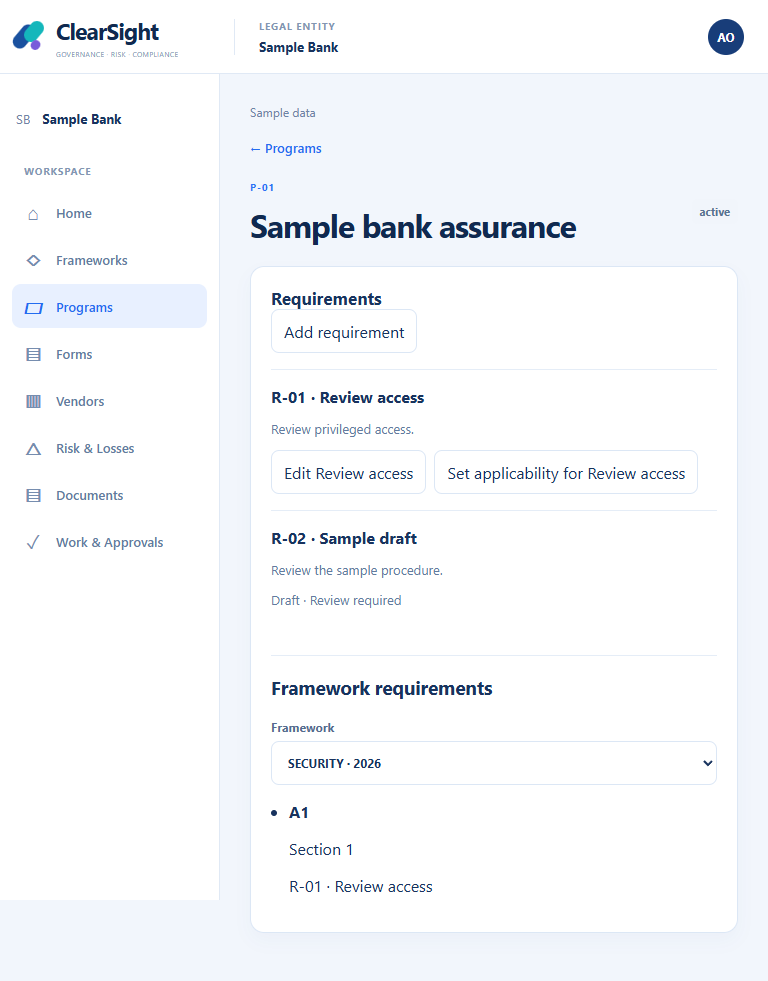
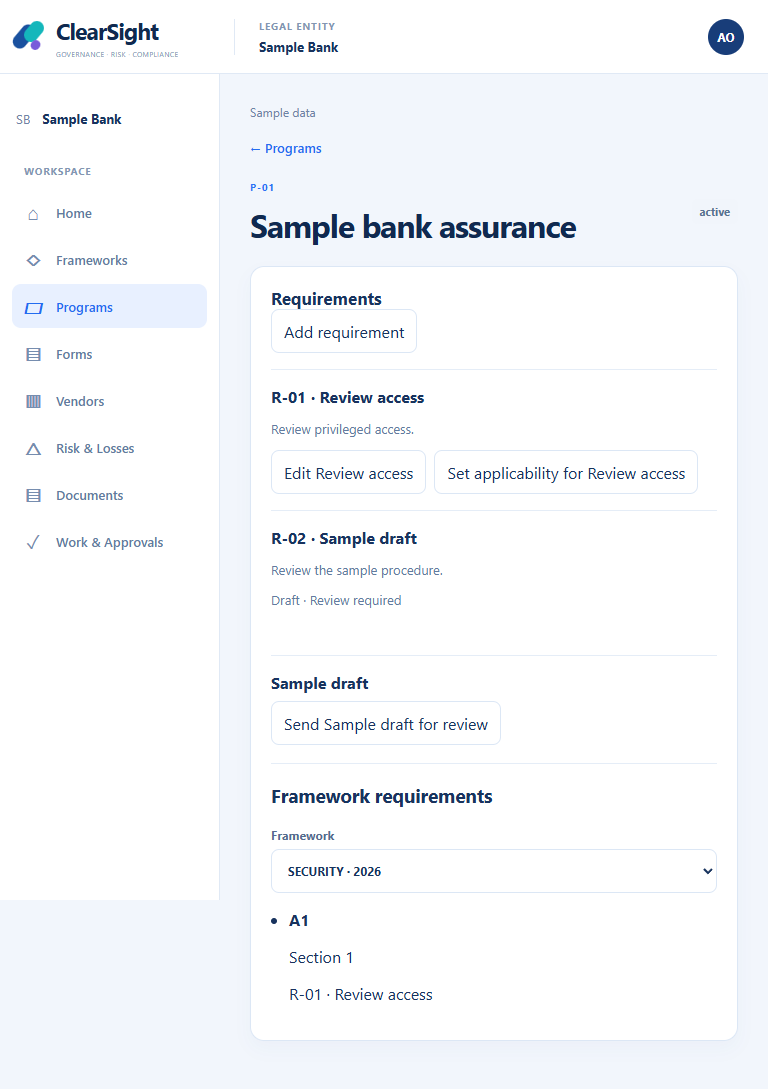
Add governed requirement review workflow

diff --git a/web/src/v210/ProgramRequirements.tsx b/web/src/v210/ProgramRequirements.tsx
@@ -3,6 +3,7 @@ import { ApiError } from "../http";
 import { addProgramRequirement, determineProgramApplicability, loadProgramOperations, supersedeProgramRequirement, type ProgramOperation } from "../programOperationsApi";
 import type { ProgramAggregate, Requirement } from "../types";
 import { FrameworkMappings } from "./FrameworkMappings";
+import { RequirementReviews } from "./RequirementReviews";
 import "./program-requirements.css";
 
 type Mode = { kind: "add" } | { kind: "edit" | "applicability"; requirement: Requirement };
@@ -15,7 +16,7 @@ export function ProgramRequirements({ aggregate, onUpdated }: { aggregate: Progr
   const [actor, setActor] = useState(""); const [action, setAction] = useState(""); const [object, setObject] = useState("");
   const [reason, setReason] = useState(""); const [scope, setScope] = useState(""); const [effective, setEffective] = useState(""); const [busy, setBusy] = useState(false);
   const [status, setStatus] = useState<"" | "updated" | "draft-saved" | "unknown" | "changed">(""); const [error, setError] = useState("");
-  const [mappingPending, setMappingPending] = useState(false);
+  const [mappingPending, setMappingPending] = useState(false); const [reviewPending, setReviewPending] = useState(false);
   const lock = useRef(false); const generation = useRef(0); const inputRef = useRef<HTMLInputElement | HTMLSelectElement>(null);
   const restoreFocus = useRef<{ id: string; kind: Mode["kind"] } | null>(null);
   useEffect(() => {
@@ -32,7 +33,7 @@ export function ProgramRequirements({ aggregate, onUpdated }: { aggregate: Progr
   const applicability = Array.isArray(aggregate.applicability) ? aggregate.applicability : undefined;
   const can = (command: string, requirement?: Requirement) => authority === "ready" && operations.some((item) => item.command === command && item.can_act && (!requirement || item.subresource_id === requirement.id));
   function open(kind: "edit" | "applicability", requirement: Requirement) {
-    if (lock.current || mappingPending || status === "unknown" || status === "changed") return;
+    if (lock.current || mappingPending || reviewPending || status === "unknown" || status === "changed") return;
     restoreFocus.current = { id: requirement.id, kind };
     setMode({ kind, requirement }); setTitle(requirement.title); setStatement(requirement.statement); setAnswer(""); setReason(""); setScope(""); setError(""); setStatus("");
     const today = new Date().toISOString().slice(0, 10);
@@ -40,12 +41,12 @@ export function ProgramRequirements({ aggregate, onUpdated }: { aggregate: Progr
     setEffective(kind === "edit" && prior >= today ? new Date(Date.parse(`${prior}T00:00:00Z`) + 86400000).toISOString().slice(0, 10) : today);
   }
   function beginAdd() {
-    if (lock.current || mappingPending || status === "unknown" || status === "changed" || !can("program.requirement.add")) return;
+    if (lock.current || mappingPending || reviewPending || status === "unknown" || status === "changed" || !can("program.requirement.add")) return;
     restoreFocus.current = { id: "", kind: "add" }; setMode({ kind: "add" }); setCode(""); setTitle(""); setStatement(""); setSourceAnchor(""); setModality(""); setActor(""); setAction(""); setObject(""); setEffective(new Date().toISOString().slice(0, 10)); setError(""); setStatus("");
   }
   async function submit(event: FormEvent) {
     event.preventDefault();
-    if (lock.current || mappingPending || !mode || authority !== "ready" || !effective) return;
+    if (lock.current || mappingPending || reviewPending || !mode || authority !== "ready" || !effective) return;
     const requirement = mode.kind === "add" ? undefined : mode.requirement;
     if (mode.kind === "add" && (!can("program.requirement.add") || ![code, title, statement, sourceAnchor, modality, actor, action, object].every((value) => value.trim()))) return;
     if (mode.kind === "edit" && (!can("program.requirement.supersede", mode.requirement) || !title.trim() || !statement.trim() || !reason.trim() || !mode.requirement.source_anchor || (mode.requirement.effective_from && Date.parse(`${effective}T00:00:00Z`) <= Date.parse(mode.requirement.effective_from)))) return;
@@ -72,22 +73,24 @@ export function ProgramRequirements({ aggregate, onUpdated }: { aggregate: Progr
     if (confirmedResult && generation.current === request) onUpdated(confirmedResult);
   }
   return <section className="v-panel v-program-requirements"><h2>Requirements</h2>
-    {!mode && status !== "unknown" && status !== "changed" && can("program.requirement.add") && <div className="v-program-requirement-actions"><button id="v-add-requirement" type="button" disabled={mappingPending} onClick={beginAdd}>Add requirement</button></div>}
+    {!mode && status !== "unknown" && status !== "changed" && can("program.requirement.add") && <div className="v-program-requirement-actions"><button id="v-add-requirement" type="button" disabled={mappingPending || reviewPending} onClick={beginAdd}>Add requirement</button></div>}
     {!applicability && <p role="alert">Applicability decisions unavailable.</p>}
     {authority === "loading" && <p role="status">Checking requirement access…</p>}
     {authority === "error" && <p role="alert">Requirement actions unavailable. <button type="button" onClick={() => setAttempt((value) => value + 1)}>Try again</button></p>}
     {authority === "changed" && <p role="alert">Program changed. Reload before editing requirements. <button type="button" onClick={() => window.location.reload()}>Reload program</button></p>}
     {status === "updated" && <p role="status">Requirement updated.</p>}
     {status === "draft-saved" && <p role="status">Requirement draft saved. Review required.</p>}
+    {reviewPending && <p role="status">Finish the requirement review or reload the Program before changing other items.</p>}
     {status === "unknown" && <p role="alert">Requirement status unknown. Reload the program before trying again. <button type="button" onClick={() => window.location.reload()}>Reload program</button></p>}
     {status === "changed" && <p role="alert">Program changed. Reload before editing requirements. <button type="button" onClick={() => window.location.reload()}>Reload program</button></p>}
-    {aggregate.requirements.length === 0 ? <p>No requirements recorded.</p> : <ul className="v-program-requirement-list">{aggregate.requirements.map((requirement) => <li id={`v-requirement-${encodeURIComponent(requirement.id)}`} key={requirement.id}><strong>{requirement.code} · {requirement.title}</strong><p>{requirement.statement}</p>{requirement.status === "DRAFT" && <p>Draft · Review required</p>}{(applicability ?? []).filter((item) => item.requirement_id === requirement.id).length > 0 && <details><summary>Applicability decisions</summary><ul>{(applicability ?? []).filter((item) => item.requirement_id === requirement.id).map((item) => <li key={item.id}><strong>{applicabilityLabel(item.status)}</strong>{item.effective_from && <span> · Effective {item.effective_from.slice(0, 10)}</span>}<p>{typeof item.scope?.description === "string" && item.scope.description.trim() ? item.scope.description : "Scope not recorded"}</p>{item.rationale && <p>{item.rationale}</p>}</li>)}</ul></details>}{requirement.status === "APPROVED" && !requirement.effective_until && !mode && status !== "unknown" && status !== "changed" && <div className="v-program-requirement-actions">{can("program.requirement.supersede", requirement) && requirement.source_anchor && <button type="button" disabled={mappingPending} data-action="edit" onClick={() => open("edit", requirement)}>Edit {requirement.title}</button>}{applicability && can("program.applicability.decide") && <button type="button" disabled={mappingPending} data-action="applicability" onClick={() => open("applicability", requirement)}>Set applicability for {requirement.title}</button>}</div>}</li>)}</ul>}
+    {aggregate.requirements.length === 0 ? <p>No requirements recorded.</p> : <ul className="v-program-requirement-list">{aggregate.requirements.map((requirement) => <li id={`v-requirement-${encodeURIComponent(requirement.id)}`} key={requirement.id}><strong>{requirement.code} · {requirement.title}</strong><p>{requirement.statement}</p>{requirement.status === "DRAFT" && <p>Draft · Review required</p>}{(applicability ?? []).filter((item) => item.requirement_id === requirement.id).length > 0 && <details><summary>Applicability decisions</summary><ul>{(applicability ?? []).filter((item) => item.requirement_id === requirement.id).map((item) => <li key={item.id}><strong>{applicabilityLabel(item.status)}</strong>{item.effective_from && <span> · Effective {item.effective_from.slice(0, 10)}</span>}<p>{typeof item.scope?.description === "string" && item.scope.description.trim() ? item.scope.description : "Scope not recorded"}</p>{item.rationale && <p>{item.rationale}</p>}</li>)}</ul></details>}{requirement.status === "APPROVED" && !requirement.effective_until && !mode && status !== "unknown" && status !== "changed" && <div className="v-program-requirement-actions">{can("program.requirement.supersede", requirement) && requirement.source_anchor && <button type="button" disabled={mappingPending || reviewPending} data-action="edit" onClick={() => open("edit", requirement)}>Edit {requirement.title}</button>}{applicability && can("program.applicability.decide") && <button type="button" disabled={mappingPending || reviewPending} data-action="applicability" onClick={() => open("applicability", requirement)}>Set applicability for {requirement.title}</button>}</div>}</li>)}</ul>}
     {mode && <form onSubmit={(event) => void submit(event)} className="v-program-requirement-form"><h3>{mode.kind === "add" ? "Add requirement" : mode.kind === "edit" ? "Edit requirement" : "Applicability"}</h3>{mode.kind !== "add" ? <p>{mode.requirement.title}</p> : <p>All fields required.</p>}<fieldset disabled={busy}>
       {mode.kind === "add" ? <><label>Requirement code<input required value={code} onChange={(event) => setCode(event.target.value)}/></label><label>Requirement title<input ref={inputRef as React.RefObject<HTMLInputElement>} required value={title} onChange={(event) => setTitle(event.target.value)}/></label><label>Requirement text<textarea required value={statement} onChange={(event) => setStatement(event.target.value)}/></label><label>Source and section<input required value={sourceAnchor} onChange={(event) => setSourceAnchor(event.target.value)}/></label><label>Obligation strength<select required value={modality} onChange={(event) => setModality(event.target.value)}><option value="">Select an answer</option><option value="MUST">Must</option><option value="MUST_NOT">Must not</option><option value="SHOULD">Should</option><option value="MAY">May</option><option value="EXPECTED">Expected</option></select></label><label>Who must act?<input required value={actor} onChange={(event) => setActor(event.target.value)}/></label><label>What must they do?<input required value={action} onChange={(event) => setAction(event.target.value)}/></label><label>What does it apply to?<input required value={object} onChange={(event) => setObject(event.target.value)}/></label></> : mode.kind === "edit" ? <><label>Requirement title<input ref={inputRef as React.RefObject<HTMLInputElement>} required value={title} onChange={(event) => setTitle(event.target.value)}/></label><label>Requirement text<textarea required value={statement} onChange={(event) => setStatement(event.target.value)}/></label><label>Reason for change<textarea required value={reason} onChange={(event) => setReason(event.target.value)}/></label></> : <div className="v-program-applicability"><label>Does this apply?<select ref={inputRef as React.RefObject<HTMLSelectElement>} required value={answer} onChange={(event) => { setAnswer(event.target.value); setReason(""); }}><option value="">Select an answer</option><option value="APPLICABLE">Yes</option><option value="PARTIALLY_APPLICABLE">Partly</option><option value="NOT_APPLICABLE">Not applicable</option><option value="POTENTIALLY_APPLICABLE">Needs assessment</option><option value="APPLIES_LATER">Applies later</option></select></label>{answer && answer !== "APPLICABLE" && <label>{answer === "NOT_APPLICABLE" ? "Why is this not applicable?" : "Reason for decision"}<textarea required value={reason} onChange={(event) => setReason(event.target.value)}/></label>}</div>}
       {mode.kind === "applicability" && <label>Scope<textarea value={scope} onChange={(event) => setScope(event.target.value)}/></label>}<label>Effective date<input required type="date" value={effective} onChange={(event) => setEffective(event.target.value)}/></label>{error && <p role="alert">{error}</p>}
       <div className="v-program-requirement-actions"><button className="v-primary" disabled={busy || !effective || (mode.kind === "add" ? ![code, title, statement, sourceAnchor, modality, actor, action, object].every((value) => value.trim()) : mode.kind === "edit" ? !title.trim() || !statement.trim() || !reason.trim() : !answer || (answer !== "APPLICABLE" && !reason.trim()))}>{busy ? "Saving…" : mode.kind === "applicability" ? "Save applicability" : "Save requirement"}</button><button type="button" onClick={() => setMode(undefined)}>Cancel</button></div>
     </fieldset></form>}
-    <FrameworkMappings aggregate={aggregate} operations={operations} onUpdated={onUpdated} disabled={authority !== "ready" || Boolean(mode) || busy || status === "unknown" || status === "changed"} onPendingChange={setMappingPending}/>
+    {authority === "ready" && operations.some((item) => item.command.startsWith("program.requirement.review.")) && aggregate.requirements.some((item) => item.status === "DRAFT") && <RequirementReviews aggregate={aggregate} operations={operations} onUpdated={onUpdated} disabled={Boolean(mode) || busy || mappingPending || status === "unknown" || status === "changed"} onPendingChange={setReviewPending}/>}
+    <FrameworkMappings aggregate={aggregate} operations={operations} onUpdated={onUpdated} disabled={authority !== "ready" || Boolean(mode) || busy || reviewPending || status === "unknown" || status === "changed"} onPendingChange={setMappingPending}/>
   </section>;
 }
 

diff --git a/web/src/v210/RequirementReviews.tsx b/web/src/v210/RequirementReviews.tsx
@@ -1,0 +1,72 @@
+import { useEffect, useRef, useState } from 'react';
+import { loadContext, loadProgram, type RuntimeContext } from '../api';
+import { ApiError } from '../http';
+import type { ProgramOperation } from '../programOperationsApi';
+import type { ProgramAggregate } from '../types';
+import { decideRequirementReview, loadRequirementReviews, proposeRequirementReview, type RequirementReview, type RequirementReviewPage } from './requirementReviewApi';
+
+type Mode = { kind: 'propose'; requirement: string } | { kind: 'decide'; requirement: string; review: RequirementReview };
+export function RequirementReviews({ aggregate, operations, onUpdated, disabled = false, onPendingChange }: { aggregate: ProgramAggregate; operations: ProgramOperation[]; onUpdated: (value: ProgramAggregate) => void; disabled?: boolean; onPendingChange?: (pending: boolean) => void }) {
+  const [context, setContext] = useState<RuntimeContext>(); const [page, setPage] = useState<RequirementReviewPage>();
+  const [loading, setLoading] = useState(true); const [attempt, setAttempt] = useState(0); const [error, setError] = useState(''); const [reason, setReason] = useState('');
+  const [mode, setMode] = useState<Mode>(); const [busy, setBusy] = useState(false); const [notice, setNotice] = useState(''); const [locked, setLocked] = useState(false);
+  const generation = useRef(0); const inFlight = useRef(false); const reasonInput = useRef<HTMLTextAreaElement>(null); const restoreFocus = useRef<string | null>(null);
+  useEffect(() => { if (mode) reasonInput.current?.focus(); else if (restoreFocus.current) { const id = restoreFocus.current; restoreFocus.current = null; document.getElementById(id)?.focus(); } }, [mode]);
+  useEffect(() => {
+    const token = ++generation.current; setLoading(true); setPage(undefined); setContext(undefined); setMode(undefined); setLocked(false); setError(''); inFlight.current = false;
+    loadContext().then(async (actor) => ({ actor, result: await loadRequirementReviews(actor.tenant.id, aggregate.program.id) })).then(({ actor, result }) => {
+      if (generation.current !== token) return;
+      if (!actor.actor.id || actor.actor.kind?.toUpperCase() === 'SERVICE' || !actor.legal_entity.id || actor.legal_entity.id !== aggregate.program.legal_entity_id || result.program_id !== aggregate.program.id || result.program_version !== aggregate.program.version || !Array.isArray(result.items) || typeof result.next_after_id !== 'string' || new Set(result.items.map((item) => item.id)).size !== result.items.length || result.items.some((item) => !item.id || item.tenant_id !== aggregate.program.tenant_id || item.program_id !== aggregate.program.id || !item.requirement_id || !item.proposed_by || typeof item.proposal_rationale !== 'string' || !item.proposal_rationale.trim() || !['PENDING', 'APPROVED', 'REJECTED'].includes(item.status) || !Number.isSafeInteger(item.version) || item.version < 1)) { setError('Requirement reviews unavailable.'); return; }
+      const pending = result.items.filter((item) => item.status === 'PENDING');
+      if (new Set(pending.map((item) => item.requirement_id)).size !== pending.length) { setError('Requirement reviews unavailable.'); return; }
+      setContext(actor); setPage(result);
+    }).catch(() => { if (generation.current === token) setError('Requirement reviews unavailable.'); }).finally(() => { if (generation.current === token) setLoading(false); });
+    return () => { generation.current++; onPendingChange?.(false); };
+  }, [aggregate.program.id, aggregate.program.version, aggregate.program.tenant_id, attempt]);
+  const can = (command: string) => operations.some((operation) => operation.command === command && operation.can_act);
+  const actor = context?.actor.id;
+  const reasonTooLong = new TextEncoder().encode(reason.trim()).length > 2000;
+  function open(next: Mode) { if (disabled || locked || busy) return; restoreFocus.current = `v-requirement-review-${encodeURIComponent(next.requirement)}`; onPendingChange?.(true); setMode(next); setReason(''); setError(''); setNotice(''); }
+  async function submit(action: 'propose' | 'approve' | 'reject') {
+    if (!mode || !context || !page || page.next_after_id || disabled || locked || inFlight.current || !reason.trim() || new TextEncoder().encode(reason.trim()).length > 2000) return;
+    const requirement = aggregate.requirements.find((item) => item.id === mode.requirement && item.status === 'DRAFT');
+    if (!requirement || (action === 'propose' ? mode.kind !== 'propose' || !can('program.requirement.review.propose') || actor !== aggregate.program.owner_principal_id || page.items.some((item) => item.requirement_id === requirement.id && item.status === 'PENDING') : mode.kind !== 'decide' || !can(`program.requirement.review.${action}`) || actor !== aggregate.program.authority_principal_id || mode.review.proposed_by === actor || mode.review.status !== 'PENDING')) return;
+    const token = generation.current; inFlight.current = true; setBusy(true); setError(''); onPendingChange?.(true);
+    let confirmed = false; let blocked = false; let responseVersion = 0;
+    try {
+      const result = action === 'propose' ? await proposeRequirementReview(aggregate.program.id, requirement.id, aggregate.program.version, reason.trim()) : await decideRequirementReview(aggregate.program.id, mode.kind === 'decide' ? mode.review.id : '', aggregate.program.version, action, reason.trim());
+      if (token !== generation.current) return;
+      const review = result.review; responseVersion = result.program.version;
+      const valid = result.program.id === aggregate.program.id && responseVersion === aggregate.program.version + 1 && review.tenant_id === aggregate.program.tenant_id && review.program_id === aggregate.program.id && review.requirement_id === requirement.id && review.id && (action === 'propose' ? review.status === 'PENDING' && review.version === 1 && review.proposed_by === actor && review.proposal_rationale === reason.trim() : mode.kind === 'decide' && review.id === mode.review.id && review.proposed_by === mode.review.proposed_by && review.version === mode.review.version + 1 && review.reviewed_by === actor && review.review_rationale === reason.trim() && review.status === (action === 'approve' ? 'APPROVED' : 'REJECTED'));
+      if (!valid) throw new Error('unconfirmed');
+      confirmed = true; setMode(undefined); setLocked(true); setNotice(action === 'propose' ? 'Requirement sent for review.' : action === 'approve' ? 'Requirement approved.' : 'Requirement rejected.');
+    } catch (failure) {
+      if (token !== generation.current) return;
+      if (failure instanceof ApiError && [400, 422].includes(failure.status)) setError('Review not saved. Check the reason and try again.');
+      else if (failure instanceof ApiError && [403, 409].includes(failure.status)) { blocked = true; setMode(undefined); setLocked(true); setError('Review changed or access ended. Reload the Program.'); }
+      else { blocked = true; setMode(undefined); setLocked(true); setError('Review status unknown. Reload the Program before trying again.'); }
+    } finally { if (token === generation.current) { setBusy(false); if (!confirmed) { inFlight.current = blocked; onPendingChange?.(true); } } }
+    if (!confirmed || token !== generation.current) return;
+    try {
+      const refreshed = await loadProgram(aggregate.program.id);
+      if (token !== generation.current) return;
+      if (refreshed.program.id !== aggregate.program.id || refreshed.program.version < responseVersion) throw new Error('stale');
+      onPendingChange?.(false); onUpdated(refreshed);
+    } catch { if (token === generation.current) setError('Review recorded. Reload the Program to see the latest status.'); }
+  }
+  if (loading) return <p role="status">Loading requirement reviews…</p>;
+  return <section className="v-requirement-reviews" aria-label="Requirement reviews">
+    {notice && <p role="status">{notice}</p>}{error && <p role="alert">{error}{!locked && !mode && <button type="button" onClick={() => setAttempt((value) => value + 1)}>Try again</button>}</p>}
+    {locked && <button type="button" onClick={() => window.location.reload()}>Reload Program</button>}
+    {page?.next_after_id && <p>Requirement reviews incomplete.</p>}
+    {page && aggregate.requirements.filter((requirement) => requirement.status === 'DRAFT').map((requirement) => {
+      const pending = page.items.find((item) => item.requirement_id === requirement.id && item.status === 'PENDING');
+      const available = !disabled && !locked && !busy && !mode && !page.next_after_id;
+      return <div key={requirement.id}><strong>{requirement.title}</strong>{pending && <><p>Review pending</p><p>Reason for review: {pending.proposal_rationale}</p></>}
+        {available && !pending && actor === aggregate.program.owner_principal_id && can('program.requirement.review.propose') && <button id={`v-requirement-review-${encodeURIComponent(requirement.id)}`} type="button" onClick={() => open({ kind: 'propose', requirement: requirement.id })}>Send {requirement.title} for review</button>}
+        {available && pending && actor === aggregate.program.authority_principal_id && actor !== pending.proposed_by && (can('program.requirement.review.approve') || can('program.requirement.review.reject')) && <button id={`v-requirement-review-${encodeURIComponent(requirement.id)}`} type="button" onClick={() => open({ kind: 'decide', requirement: requirement.id, review: pending })}>Review {requirement.title}</button>}
+      </div>;
+    })}
+    {mode && !locked && <form onSubmit={(event) => { event.preventDefault(); if (mode.kind === 'propose') void submit('propose'); }}><label>{mode.kind === 'propose' ? 'Reason for review' : 'Review reason'}<textarea ref={reasonInput} required maxLength={2000} value={reason} disabled={busy} onChange={(event) => setReason(event.target.value)}/></label>{reasonTooLong && <p role="alert">Reason is too long.</p>}<div className="v-program-requirement-actions">{mode.kind === 'propose' ? <button type="submit" disabled={busy || disabled || !reason.trim() || reasonTooLong}>Send for review</button> : <>{can('program.requirement.review.approve') && <button type="button" disabled={busy || disabled || !reason.trim() || reasonTooLong} onClick={() => void submit('approve')}>Approve requirement</button>}{can('program.requirement.review.reject') && <button type="button" disabled={busy || disabled || !reason.trim() || reasonTooLong} onClick={() => void submit('reject')}>Reject requirement</button>}</>}<button type="button" disabled={busy} onClick={() => { setMode(undefined); onPendingChange?.(false); }}>Cancel</button></div></form>}
+  </section>;
+}

diff --git a/web/src/v210/RequirementReviews.test.tsx b/web/src/v210/RequirementReviews.test.tsx
@@ -1,0 +1,118 @@
+import { fireEvent, render, screen } from '@testing-library/react';
+import { beforeEach, expect, it, vi } from 'vitest';
+import { RequirementReviews } from './RequirementReviews';
+import type { ProgramAggregate } from '../types';
+const api = vi.hoisted(() => ({ loadContext: vi.fn(), loadProgram: vi.fn(), loadRequirementReviews: vi.fn(), proposeRequirementReview: vi.fn(), decideRequirementReview: vi.fn() }));
+vi.mock('../api', () => ({ loadContext: api.loadContext, loadProgram: api.loadProgram }));
+vi.mock('./requirementReviewApi', () => api);
+const requirement = { id: 'r1', code: 'R1', title: 'Review access', statement: 'Review access.', status: 'DRAFT' };
+const program = { id: 'p1', tenant_id: 'bank', legal_entity_id: 'entity', owner_principal_id: 'owner', authority_principal_id: 'checker', status: 'ACTIVE', version: 4 };
+const aggregate = { program, requirements: [requirement], applicability: [] } as unknown as ProgramAggregate;
+const review = { id: 'review1', tenant_id: 'bank', program_id: 'p1', requirement_id: 'r1', proposed_by: 'owner', proposal_rationale: 'Check this requirement', status: 'PENDING', version: 1 };
+const operation = (command: string) => ({ command, can_act: true, label: '', responsibility: '', reason: '' });
+const ownerOps = [operation('program.requirement.review.propose')];
+const checkerOps = [operation('program.requirement.review.approve'), operation('program.requirement.review.reject')];
+beforeEach(() => { vi.resetAllMocks(); api.loadContext.mockResolvedValue({ tenant: { id: 'bank' }, legal_entity: { id: 'entity' }, actor: { id: 'owner', kind: 'PERSON' } }); api.loadRequirementReviews.mockResolvedValue({ program_id: 'p1', program_version: 4, items: [], next_after_id: '' }); });
+it('sends the exact draft for independent review at the current version', async () => {
+  api.proposeRequirementReview.mockResolvedValue({ review, program: { ...program, version: 5 } });
+  api.loadProgram.mockResolvedValue({ ...aggregate, program: { ...program, version: 5 } });
+  const updated = vi.fn(); render(<RequirementReviews aggregate={aggregate} operations={ownerOps} onUpdated={updated}/>);
+  fireEvent.click(await screen.findByRole('button', { name: 'Send Review access for review' }));
+  fireEvent.change(screen.getByLabelText('Reason for review'), { target: { value: 'Check this requirement' } });
+  fireEvent.click(screen.getByRole('button', { name: 'Send for review' }));
+  expect(await screen.findByText('Requirement sent for review.')).toBeTruthy();
+  expect(api.proposeRequirementReview).toHaveBeenCalledWith('p1', 'r1', 4, 'Check this requirement');
+  expect(updated).toHaveBeenCalledTimes(1);
+});
+it('allows the independent authorized reviewer to approve the exact pending review', async () => {
+  api.loadContext.mockResolvedValue({ tenant: { id: 'bank' }, legal_entity: { id: 'entity' }, actor: { id: 'checker', kind: 'PERSON' } });
+  api.loadRequirementReviews.mockResolvedValue({ program_id: 'p1', program_version: 4, items: [review], next_after_id: '' });
+  api.decideRequirementReview.mockResolvedValue({ review: { ...review, status: 'APPROVED', reviewed_by: 'checker', review_rationale: 'Reviewed', version: 2 }, program: { ...program, version: 5 } });
+  api.loadProgram.mockResolvedValue({ ...aggregate, program: { ...program, version: 5 } });
+  render(<RequirementReviews aggregate={aggregate} operations={checkerOps} onUpdated={() => {}}/>);
+  fireEvent.click(await screen.findByRole('button', { name: 'Review Review access' }));
+  expect(screen.getByText('Reason for review: Check this requirement')).toBeTruthy();
+  fireEvent.change(screen.getByLabelText('Review reason'), { target: { value: 'Reviewed' } });
+  fireEvent.click(screen.getByRole('button', { name: 'Approve requirement' }));
+  expect(await screen.findByText('Requirement approved.')).toBeTruthy();
+  expect(api.decideRequirementReview).toHaveBeenCalledWith('p1', 'review1', 4, 'approve', 'Reviewed');
+});
+it('records a rejection only against the selected pending review', async () => {
+  api.loadContext.mockResolvedValue({ tenant: { id: 'bank' }, legal_entity: { id: 'entity' }, actor: { id: 'checker', kind: 'PERSON' } });
+  api.loadRequirementReviews.mockResolvedValue({ program_id: 'p1', program_version: 4, items: [review], next_after_id: '' });
+  api.decideRequirementReview.mockResolvedValue({ review: { ...review, status: 'REJECTED', reviewed_by: 'checker', review_rationale: 'Needs correction', version: 2 }, program: { ...program, version: 5 } });
+  api.loadProgram.mockResolvedValue({ ...aggregate, program: { ...program, version: 5 } });
+  render(<RequirementReviews aggregate={aggregate} operations={checkerOps} onUpdated={() => {}}/>);
+  fireEvent.click(await screen.findByRole('button', { name: 'Review Review access' }));
+  fireEvent.change(screen.getByLabelText('Review reason'), { target: { value: 'Needs correction' } });
+  fireEvent.click(screen.getByRole('button', { name: 'Reject requirement' }));
+  expect(await screen.findByText('Requirement rejected.')).toBeTruthy();
+  expect(api.decideRequirementReview).toHaveBeenCalledWith('p1', 'review1', 4, 'reject', 'Needs correction');
+});
+it('does not offer a decision to the maker even if an operation permits it', async () => {
+  api.loadRequirementReviews.mockResolvedValue({ program_id: 'p1', program_version: 4, items: [review], next_after_id: '' });
+  render(<RequirementReviews aggregate={{ ...aggregate, program: { ...aggregate.program, authority_principal_id: 'owner' } }} operations={checkerOps} onUpdated={() => {}}/>);
+  expect(await screen.findByText('Review pending')).toBeTruthy();
+  expect(screen.queryByRole('button', { name: 'Review Review access' })).toBeNull();
+});
+it('does not offer a proposal when review history is incomplete', async () => {
+  api.loadRequirementReviews.mockResolvedValue({ program_id: 'p1', program_version: 4, items: [], next_after_id: 'next' });
+  render(<RequirementReviews aggregate={aggregate} operations={ownerOps} onUpdated={() => {}}/>);
+  expect(await screen.findByText('Requirement reviews incomplete.')).toBeTruthy();
+  expect(screen.queryByRole('button', { name: /Send .* for review/ })).toBeNull();
+});
+
+it('moves focus into the review and returns it on cancellation', async () => {
+  render(<RequirementReviews aggregate={aggregate} operations={ownerOps} onUpdated={() => {}}/>);
+  const trigger = await screen.findByRole('button', { name: 'Send Review access for review' });
+  trigger.focus(); fireEvent.click(trigger);
+  expect(document.activeElement).toBe(screen.getByLabelText('Reason for review'));
+  fireEvent.click(screen.getByRole('button', { name: 'Cancel' }));
+  expect(document.activeElement).toBe(screen.getByRole('button', { name: 'Send Review access for review' }));
+});
+it('prevents another proposal when its outcome is unconfirmed', async () => {
+  api.proposeRequirementReview.mockRejectedValue(new Error('network'));
+  const pending = vi.fn(); render(<RequirementReviews aggregate={aggregate} operations={ownerOps} onUpdated={() => {}} onPendingChange={pending}/>);
+  fireEvent.click(await screen.findByRole('button', { name: 'Send Review access for review' }));
+  fireEvent.change(screen.getByLabelText('Reason for review'), { target: { value: 'Check this requirement' } });
+  fireEvent.click(screen.getByRole('button', { name: 'Send for review' }));
+  expect(await screen.findByText(/Review status unknown/)).toBeTruthy();
+  expect(screen.queryByRole('button', { name: 'Send for review' })).toBeNull();
+  expect(api.proposeRequirementReview).toHaveBeenCalledTimes(1);
+  expect(pending).toHaveBeenLastCalledWith(true);
+});
+
+it('withholds actions when the review page belongs to another Program version', async () => {
+  api.loadRequirementReviews.mockResolvedValue({ program_id: 'p1', program_version: 3, items: [], next_after_id: '' });
+  render(<RequirementReviews aggregate={aggregate} operations={ownerOps} onUpdated={() => {}}/>);
+  expect(await screen.findByText('Requirement reviews unavailable.')).toBeTruthy();
+  expect(screen.queryByRole('button', { name: /Send .* for review/ })).toBeNull();
+});
+it('retries the review history read after a temporary failure', async () => {
+  api.loadRequirementReviews.mockRejectedValueOnce(new Error('unavailable')).mockResolvedValueOnce({ program_id: 'p1', program_version: 4, items: [], next_after_id: '' });
+  render(<RequirementReviews aggregate={aggregate} operations={ownerOps} onUpdated={() => {}}/>);
+  fireEvent.click(await screen.findByRole('button', { name: 'Try again' }));
+  expect(await screen.findByRole('button', { name: 'Send Review access for review' })).toBeTruthy();
+});
+
+it('does not confirm a receipt for a different requirement', async () => {
+  api.proposeRequirementReview.mockResolvedValue({ review: { ...review, requirement_id: 'other' }, program: { ...program, version: 5 } });
+  const updated = vi.fn(); render(<RequirementReviews aggregate={aggregate} operations={ownerOps} onUpdated={updated}/>);
+  fireEvent.click(await screen.findByRole('button', { name: 'Send Review access for review' }));
+  fireEvent.change(screen.getByLabelText('Reason for review'), { target: { value: 'Check this requirement' } });
+  fireEvent.click(screen.getByRole('button', { name: 'Send for review' }));
+  expect(await screen.findByText(/Review status unknown/)).toBeTruthy();
+  expect(updated).not.toHaveBeenCalled();
+});
+
+it('retains a confirmed review when the Program refresh fails', async () => {
+  api.proposeRequirementReview.mockResolvedValue({ review, program: { ...program, version: 5 } });
+  api.loadProgram.mockRejectedValue(new Error('unavailable'));
+  render(<RequirementReviews aggregate={aggregate} operations={ownerOps} onUpdated={() => {}}/>);
+  fireEvent.click(await screen.findByRole('button', { name: 'Send Review access for review' }));
+  fireEvent.change(screen.getByLabelText('Reason for review'), { target: { value: 'Check this requirement' } });
+  fireEvent.click(screen.getByRole('button', { name: 'Send for review' }));
+  expect(await screen.findByText('Requirement sent for review.')).toBeTruthy();
+  expect(await screen.findByText('Review recorded. Reload the Program to see the latest status.')).toBeTruthy();
+  expect(screen.queryByRole('button', { name: /Send .* for review/ })).toBeNull();
+});

diff --git a/web/src/v210/program-requirements.css b/web/src/v210/program-requirements.css
@@ -2,14 +2,18 @@
 .v-program-requirement-list li { padding: 16px 0; border-top: 1px solid #e5edf7; }
 .v-program-requirement-list p { color: #627b9f; font-size: 13px; }
 .v-program-requirement-actions { display: flex; flex-wrap: wrap; gap: 8px; }
-.v-program-requirement-actions button, .v-program-requirements p button { min-height: 44px; padding: 0 12px; border: 1px solid #dce7f5; border-radius: 8px; background: #fff; color: #18335e; }
+.v-program-requirement-actions button, .v-program-requirements p button, .v-requirement-reviews button { min-height: 44px; padding: 0 12px; border: 1px solid #dce7f5; border-radius: 8px; background: #fff; color: #18335e; }
 .v-program-requirement-actions button.v-primary { background: #246cf0; color: #fff; border-color: #246cf0; }
 .v-program-requirement-actions button:disabled { opacity: .55; cursor: not-allowed; }
 .v-program-requirement-form { max-width: 760px; border-top: 1px solid #e5edf7; margin-top: 16px; }
 .v-program-requirement-form fieldset { min-width: 0; margin: 0; padding: 0; border: 0; }
-.v-program-requirement-form label { display: grid; gap: 6px; margin-bottom: 14px; color: #536c90; font-size: 12px; font-weight: 700; }
+.v-program-requirement-form label, .v-requirement-reviews label { display: grid; gap: 6px; margin-bottom: 14px; color: #536c90; font-size: 12px; font-weight: 700; }
 .v-program-requirement-form input, .v-program-requirement-form select, .v-program-requirement-form textarea { width: 100%; min-height: 44px; padding: 8px 12px; border: 1px solid #dce7f5; border-radius: 8px; background: #fff; color: #18335e; }
 .v-program-requirement-form textarea { min-height: 80px; }
+.v-requirement-reviews { max-width: 760px; border-top: 1px solid #e5edf7; margin-top: 18px; padding-top: 16px; }
+.v-requirement-reviews textarea { width: 100%; min-height: 80px; padding: 8px 12px; border: 1px solid #dce7f5; border-radius: 8px; background: #fff; color: #18335e; }
+.v-requirement-reviews > div { margin-bottom: 16px; }
+.v-requirement-reviews > div > strong { display: block; margin-bottom: 8px; }
 .v-program-applicability { display: grid; grid-template-columns: repeat(2, minmax(0, 1fr)); gap: 12px; }
 .v-framework-mappings { margin-top: 18px; border-top: 1px solid #e5edf7; }
 .v-framework-mappings label { display: grid; gap: 6px; margin: 12px 0; color: #536c90; font-size: 12px; font-weight: 700; }

diff --git a/web/src/v210/requirementReviewApi.ts b/web/src/v210/requirementReviewApi.ts
@@ -1,0 +1,18 @@
+import { continuityCommand } from '../continuityCommands';
+import { requestJSON } from '../http';
+import type { Program } from '../types';
+
+const apiBase = import.meta.env.VITE_API_BASE_URL ?? '';
+export type RequirementReview = { id: string; tenant_id: string; program_id: string; requirement_id: string; proposed_by: string; proposal_rationale: string; status: string; version: number; reviewed_by?: string; review_rationale?: string };
+export type RequirementReviewPage = { program_id: string; program_version: number; items: RequirementReview[]; next_after_id: string };
+export type RequirementReviewReceipt = { review: RequirementReview; program: Program };
+export function loadRequirementReviews(tenant: string, program: string): Promise<RequirementReviewPage> {
+  const query = new URLSearchParams({ tenant_id: tenant });
+  return requestJSON(apiBase, `/api/v1/programs/${encodeURIComponent(program)}/requirement-reviews?${query}`);
+}
+export function proposeRequirementReview(program: string, requirement: string, version: number, rationale: string): Promise<RequirementReviewReceipt> {
+  return continuityCommand(`/api/v1/programs/${encodeURIComponent(program)}/requirements/${encodeURIComponent(requirement)}/review`, { expected_version: version, rationale });
+}
+export function decideRequirementReview(program: string, review: string, version: number, action: 'approve' | 'reject', rationale: string): Promise<RequirementReviewReceipt> {
+  return continuityCommand(`/api/v1/programs/${encodeURIComponent(program)}/requirement-reviews/${encodeURIComponent(review)}/${action}`, { expected_version: version, rationale });
+}

diff --git a/web/src/v210/requirementReviewApi.test.ts b/web/src/v210/requirementReviewApi.test.ts
@@ -1,0 +1,18 @@
+import { beforeEach, expect, it, vi } from 'vitest';
+import { decideRequirementReview, loadRequirementReviews, proposeRequirementReview } from './requirementReviewApi';
+const mocks = vi.hoisted(() => ({ requestJSON: vi.fn(), continuityCommand: vi.fn() }));
+vi.mock('../http', () => ({ requestJSON: mocks.requestJSON }));
+vi.mock('../continuityCommands', () => ({ continuityCommand: mocks.continuityCommand }));
+beforeEach(() => vi.resetAllMocks());
+it('loads reviews for the scoped tenant and exact Program', async () => {
+  await loadRequirementReviews('bank', 'program / 1');
+  expect(mocks.requestJSON).toHaveBeenCalledWith('', '/api/v1/programs/program%20%2F%201/requirement-reviews?tenant_id=bank');
+});
+it('sends the exact draft and current Program version without a browser actor', async () => {
+  await proposeRequirementReview('program / 1', 'requirement / 1', 4, 'Review this');
+  expect(mocks.continuityCommand).toHaveBeenCalledWith('/api/v1/programs/program%20%2F%201/requirements/requirement%20%2F%201/review', { expected_version: 4, rationale: 'Review this' });
+});
+it.each(['approve', 'reject'] as const)('sends the %s decision to the exact review without a browser actor', async (action) => {
+  await decideRequirementReview('program / 1', 'review / 1', 5, action, 'Decision reason');
+  expect(mocks.continuityCommand).toHaveBeenCalledWith(`/api/v1/programs/program%20%2F%201/requirement-reviews/review%20%2F%201/${action}`, { expected_version: 5, rationale: 'Decision reason' });
+});

diff --git a/docs/design/2026-11-22-v215-requirement-authoring.md b/docs/design/2026-11-22-v215-requirement-authoring.md
@@ -2,8 +2,10 @@
 
[1 lines of base64/hex data omitted]
 
-The Add requirement action requires the current Program version and a positive `program.requirement.add` authority result. The owner enters the source and section, obligation strength, party, action, object, text and effective date. The integrated backend records a draft requiring independent review; no source ID or bank-specific party is invented. The UI checks the returned draft's identity, text, source, semantics and effective date before reporting success. A changed Program or an unconfirmed response cannot be retried as a new command. An in-flight response for a previously selected Program is ignored. Existing applicability decisions retain a rationale only when the selected decision requires one. Drafts are identified as requiring review and cannot be treated as approved. The review proposal and decision UI is not implemented in this tranche.
+The Add requirement action requires the current Program version and a positive `program.requirement.add` authority result. The owner enters the source and section, obligation strength, party, action, object, text and effective date. The integrated backend records a draft requiring independent review; no source ID or bank-specific party is invented. The UI checks the returned draft's identity, text, source, semantics and effective date before reporting success. A changed Program or an unconfirmed response cannot be retried as a new command. An in-flight response for a previously selected Program is ignored. Existing applicability decisions retain a rationale only when the selected decision requires one. Drafts are identified as requiring review and cannot be treated as approved.
 
-Synthetic draft, add and not-applicable states at 1440, 768 and 390 pixels are in `docs/evidence/2026-11-22-v215-requirement-authoring/`. The browser check verifies required fields, blocked incomplete save, draft labeling, conditional rationale and horizontal overflow. Renders were inspected; the desktop form width was constrained after inspection. Fixtures do not prove authorization, backend writes, source validity, dark-theme behavior or full screen acceptance. The integrated candidate's routed `TestRequirementReviewHTTPIndependentAuthorityAndScope` verifies explicit draft creation with source semantics and stale-version rejection, as well as independent review and entity-scope checks.
+An authorized Program owner can send a draft for review with a reason. An independently authorized Program approval authority can approve or reject a pending review with a reason; the proposer cannot decide their own review. Actions require matching Program and entity scope, current version, operation authority, and complete bounded review history. The UI checks the returned review and Program version before showing the outcome. An unknown outcome or failed refresh blocks another command and directs the user to reload. The server remains responsible for rechecking authority, maker-checker and transaction boundaries.
+
+Synthetic draft, add, review proposal, review decision and not-applicable states at 1440, 768 and 390 pixels are in `docs/evidence/2026-11-22-v215-requirement-authoring/`. The browser check verifies required fields, blocked incomplete save, draft labeling, conditional rationale, review controls and horizontal overflow. Renders were inspected; the desktop form width was constrained after inspection. Fixtures do not prove authorization, backend writes, source validity, dark-theme behavior or full screen acceptance. The integrated candidate's routed `TestRequirementReviewHTTPIndependentAuthorityAndScope` verifies explicit draft creation with source semantics and stale-version rejection, as well as independent review and entity-scope checks.
 
 The legacy `ProgramRequirementAuthoring.test.tsx` remains unresolved: its first test requires creating a new Program and then authoring its first requirement. The v2.15 Program register does not currently provide Program creation, so replacing that test with an existing-Program test would discard a workflow. Existing Program authoring and applicability requirements are covered in `web/src/v210/ProgramRequirements.test.tsx`.
